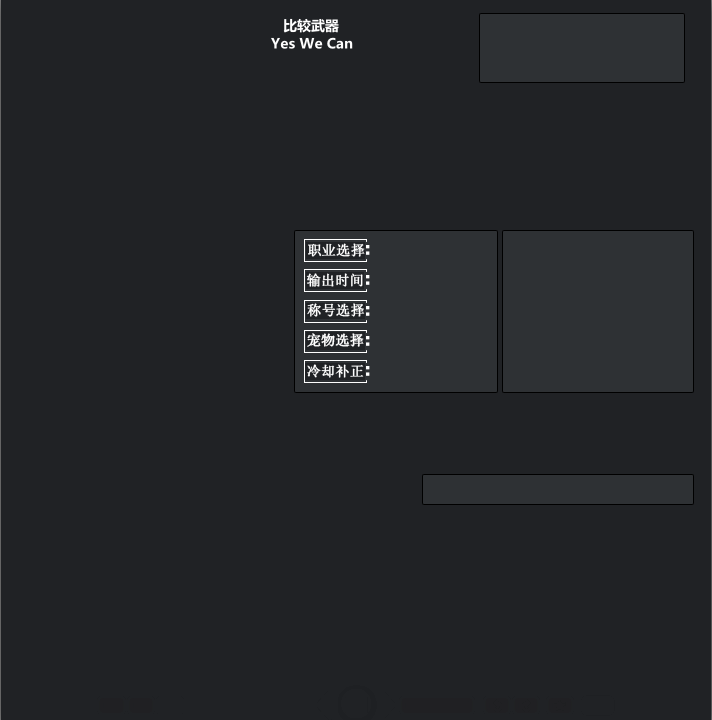
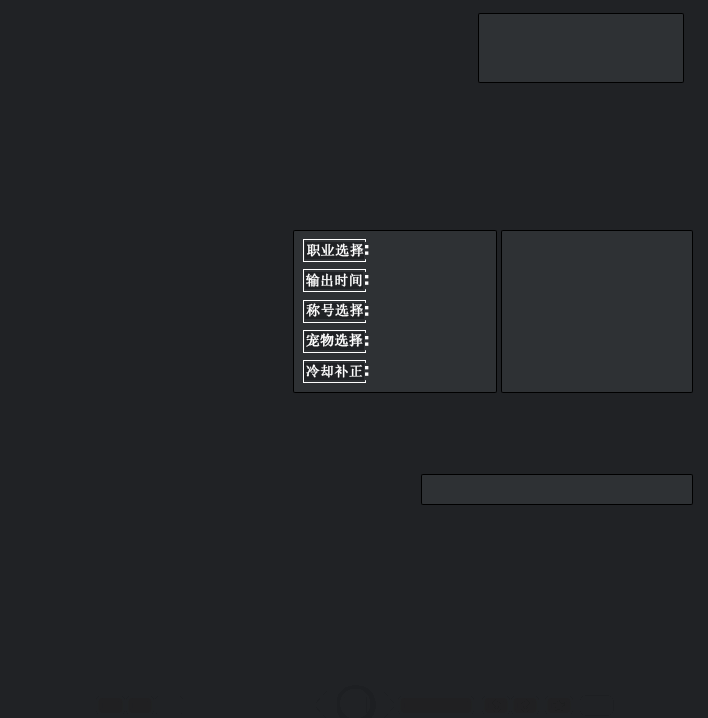
增加更多国服特色配置的引导按钮

diff --git a/再度魔改版史诗装备计算器_by风之凌殇.py b/再度魔改版史诗装备计算器_by风之凌殇.py
@@ -1381,7 +1381,7 @@ def calc():
                                                                                       + lvlget('hol_pas0_1')[int(base_array[index_buf_naiba_protect_badge_lv25])]
                     # 一觉被动（信念光环）增加的体力、精神数值
                     first_awaken_passive_increase_physical_and_mental_strength = lvlget('hol_pas1')[int(base_array[index_buf_first_awaken_passive_lv48])]
-                    # 二觉被动增加的体力、精神数值
+                    # 二觉增加的体力、精神数值
                     second_awaken_increase_physical_and_mental_strength = lvlget('hol_act2')[int(base_array[index_buf_second_awaken_lv85])]
                     # 三觉被动增加的体力、精神数值
                     third_awaken_passive_increase_physical_and_mental_strength = lvlget('pas3')[int(base_array[index_buf_third_awaken_passive_lv95])]
@@ -4427,6 +4427,16 @@ select_all.place(x=390 - 35, y=7)
 stop_img = PhotoImage(file="ext_img/stop.png")
 tkinter.Button(self, image=stop_img, borderwidth=0, activebackground=dark_main, command=stop_calc, bg=dark_main).place(
     x=390 - 35, y=62)
+
+
+def show_more_tese():
+    tkinter.messagebox.showinfo("操作方法", "如需设置更多国服特色，请前往setting/account_other_bonus_attributes.yaml，阅读配置示例后自行配置")
+
+
+# 更多国服特色
+more_tese_img = PhotoImage(file="ext_img/more_tese.png")
+select_all = tkinter.Button(self, image=more_tese_img, borderwidth=0, activebackground=dark_main, command=show_more_tese, bg=dark_main)
+select_all.place(x=275, y=10)
 
 # timeline_img = PhotoImage(file="ext_img/timeline.png")
 # select_custom = tkinter.Button(self, image=timeline_img, borderwidth=0, activebackground=dark_main,
